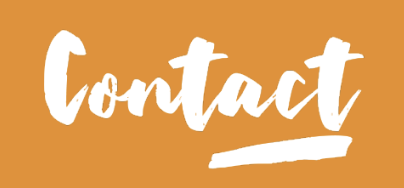
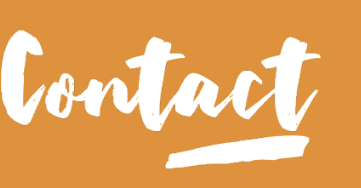
Titels met streepjes

Changed region(s): [[0.0, 0.1596, 0.9141, 0.9043]]

diff --git a/Backend/Verrukkulluk/wwwroot/css/site.css b/Backend/Verrukkulluk/wwwroot/css/site.css
@@ -102,6 +102,10 @@ body {
     top: -3px;
 }
 
+.titleUnderlined {
+    height: 70px;
+}
+
 h1, h2, h3, h4 {
     font-family: var(--heading);
 }
